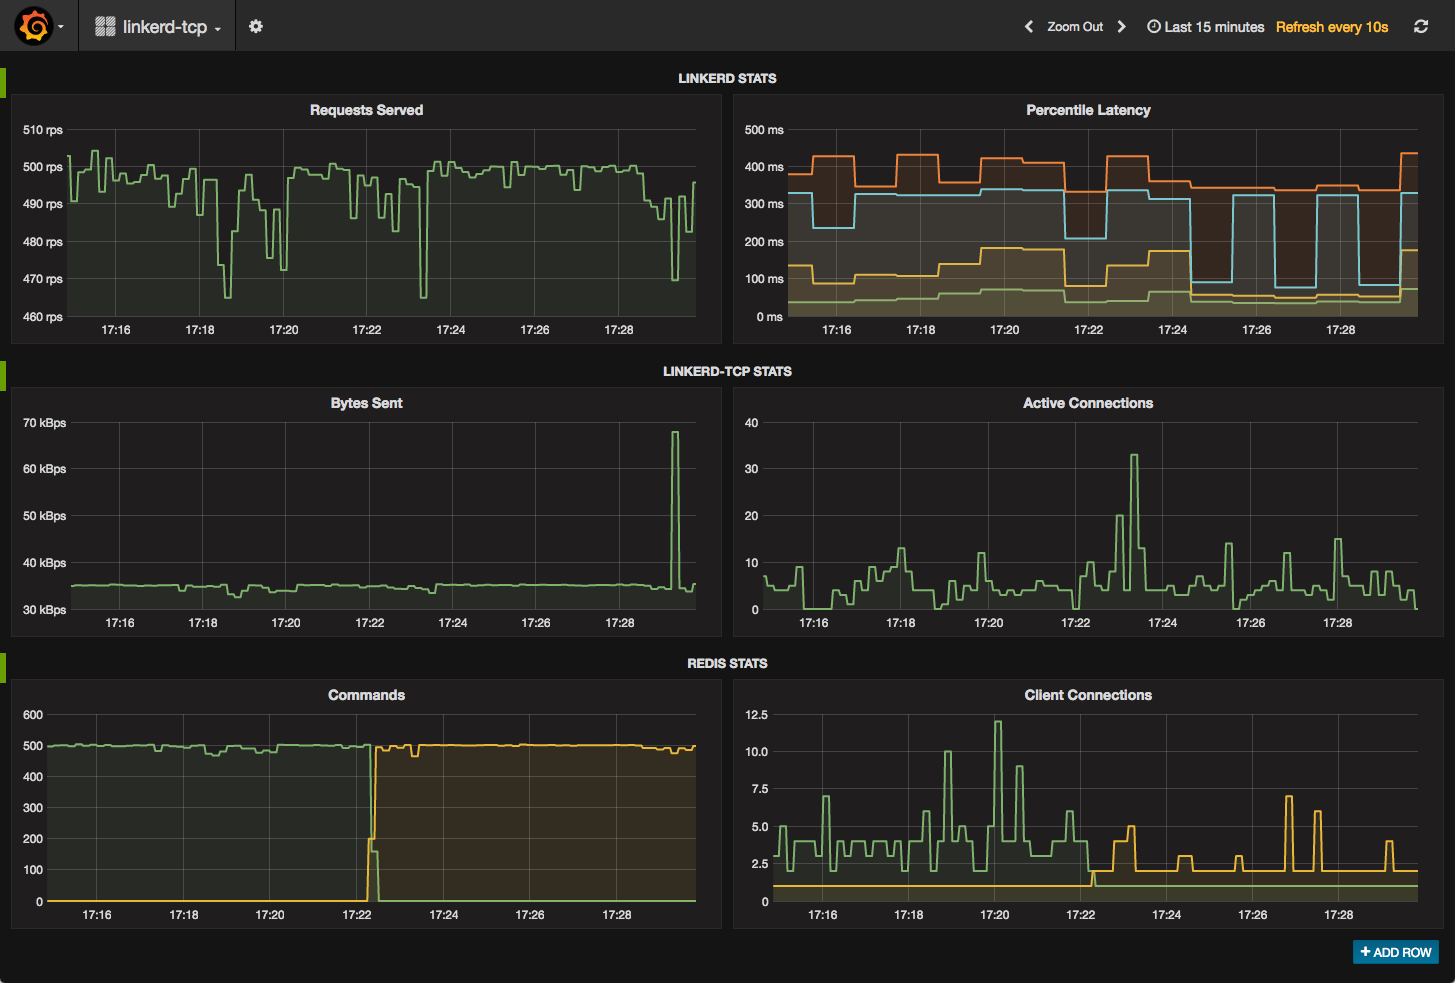
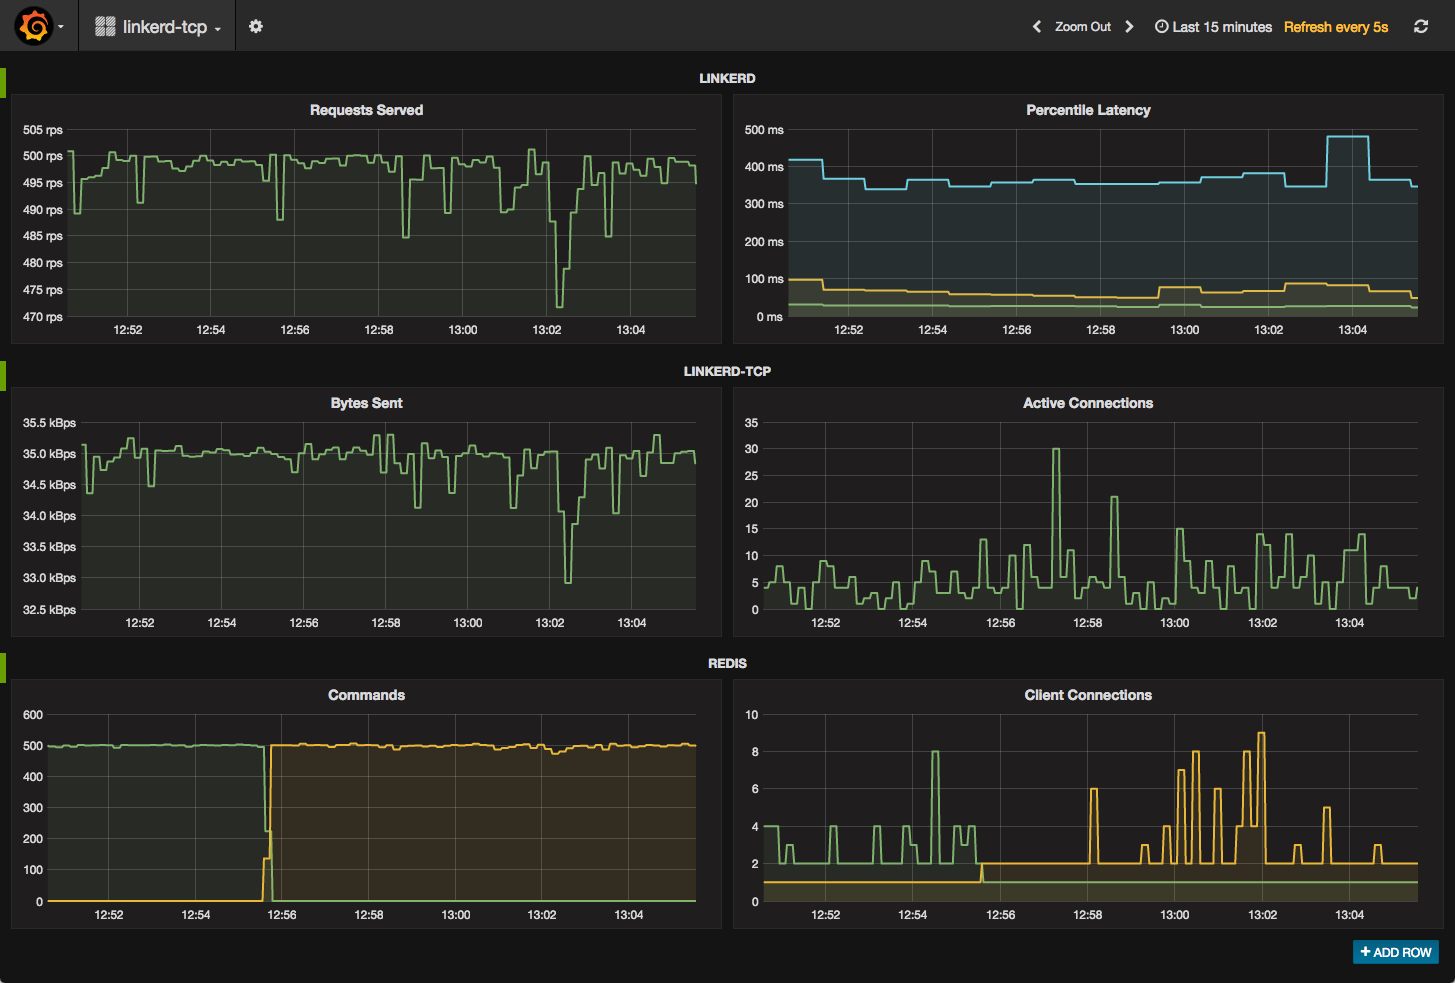
Updates based on review feedback

diff --git a/linkerd-tcp/README.md b/linkerd-tcp/README.md
@@ -12,7 +12,20 @@ directory is configured to run the demo. Start everything with:
 $ docker-compose build && docker-compose up -d
 ```
 
-That command will build and run all of the following containers:
+That command will start [linkerd-viz](https://github.com/BuoyantIO/linkerd-viz)
+on port 3000 on your Docker host, which you can use to view the demo in action.
+Set the `DOCKER_IP` environment variable to your Docker IP (e.g.
+`DOCKER_IP=$(docker-machine ip)`), and then open the dashboard with:
+
+```bash
+$ open http://$DOCKER_IP:3000 # on OS X
+```
+
+It will look like this:
+
+![linkerd-viz](screenshot.png)
+
+The docker environment is also running all of the following containers:
 
 * **namerd**: namerd is configured via the provided [`namerd.yml`](namerd.yml)
 file, which defines a `default` namespace that can be used to route traffic
@@ -25,57 +38,69 @@ traffic via namerd.
 
 * **linkerd-tcp**: linkerd-tcp is configured via the provided
 [`linkerd-tcp.yml`](linkerd-tcp.yml), which specifies 1 TCP proxy running on
-port 7474, routing Redis traffic via namerd.
+port 7474, routing redis traffic via namerd.
 
-* **2 Redis instances**: Two [Redis](https://redis.io/) instances are configured
-to run on ports 6379 and 6380. The `default` namerd namespace is setup to send
-all Redis traffic to the first redis instance, but that routing decision can be
-changed by modifying namerd's dtab.
+* **redis**: Two [redis](https://redis.io/) instances are configured to run on
+ports 6379 and 6380. The `default` namerd namespace is setup to send all redis
+traffic to the first redis instance, but that routing decision can be changed by
+modifying namerd's dtab.
 
-* **1 HTTP cluster**: The HTTP cluster consists of 10 instances of the HTTP
-web server defined in [`server.go`](server.go). The web server is configured
-to respond with the string "hello", and to cache its responses in Redis. If the
-response is found in cache, it returns immediately. On cache miss, it sleeps
-for 300 milliseconds before returning.
+* **web service**: The web service is composed of 10 instances of the HTTP web
+service defined in [`web.go`](web.go). The web service responds to HTTP requests
+with the string "hello", caches its responses in redis. If the response is found
+in cache, it returns immediately. On cache miss, it sleeps for 300 milliseconds
+before returning.
 
 * **slow_cooker**: Traffic to linkerd is generated using [slow\_cooker](
 https://github.com/BuoyantIO/slow_cooker). slow\_cooker is configured to send
 500 requests per second to the linkerd HTTP router, which load balances the
-requests over the 10 HTTP web server instances.
+requests over all 10 instances of the web service.
 
-* **prometheus**: linkerd, linkerd-tcp, and the Redis instances expose metrics
-data in a format that can be read by [Prometheus](https://prometheus.io/).
-Prometheus metrics collection is configured in [`prometheus.yml`](
-prometheus.yml), which scrapes all metrics from all processes every 10 seconds.
+* **linkerd-viz**: linkerd, linkerd-tcp, and redis expose metrics data in a
+format that can be read by [Prometheus](https://prometheus.io/). Those metrics
+are collected by the linkerd-viz container and displayed on dashboards using
+[Grafana](https://grafana.com/). The linkerd-viz UI is running on port 3000.
 
-* **grafana**: Collected metrics are displayed on a dashboard using [Grafana](
-http://grafana.org/). The grafana dasbhard is running on port 3000, and is
-defined in [`grafana.json`](grafana.json).
+## Traffic shifting
 
-* **linkerd-viz**: The setup is also running a [linkerd-viz](
-https://github.com/BuoyantIO/linkerd-viz) on port 3000, which gives an overall
-picture of the performance of slow_cooker's HTTP requests.
+Once the demo is up and running, you can shift traffic between the two redis
+instances by updating the default routing rules that are stored in namerd. To do
+this, use the [namerctl](https://github.com/BuoyantIO/namerctl) command line
+utility. Install it with:
 
-## Dashboards
+```bash
+$ go get -u github.com/buoyantio/namerctl
+```
 
-### Grafana
+namerctl uses namerd's HTTP API, which is running on port 4180 on your Docker
+host. Set the `DOCKER_IP` environment variable as described above, and then
+configure namerctl to talk to namerd by setting the `NAMERCTL_BASE_URL`
+environment variable:
 
-Grafana is running on port 3000 in your docker-compose environment. To see a
-dashboard that displays linkerd-tcp metrics alongside linkerd and redis metrics,
-load the dashboard by going to port 3000 on your docker host. It should look
-like this:
+```bash
+$ export NAMERCTL_BASE_URL=http://$DOCKER_IP:4180
+```
 
-![grafana](screenshot.png)
+Fetch namerd's current routing configuration:
 
-### linkerd admin
+```bash
+$ namerctl dtab get default
+# version AAAAAAAAAAE=
+/srv        => /#/io.l5d.fs ;
+/svc        => /srv ;
+/svc/redis  => /srv/redis1 ;
+```
 
-The linkerd admin server is running on port 9990 in your docker-compose
-environment, and displays instance-specific metrics data.
+You can see that the final dtab entry is routing all redis traffic to the first
+redis instance. Use namerctl to route all traffic to the second instance:
 
-### linkerd-viz
+```bash
+$ namerctl dtab get default | sed 's/redis1/redis2/' > default.dtab
+$ namerctl dtab update default default.dtab
+Updated default
+```
 
-The linkerd-viz server is running on port 3001 in your docker-compose
-environment, and displays high-level performance data.
+The linkerd-viz dashboard will show traffic switching from redis1 to redis2.
 
 ## Troubleshooting
 
